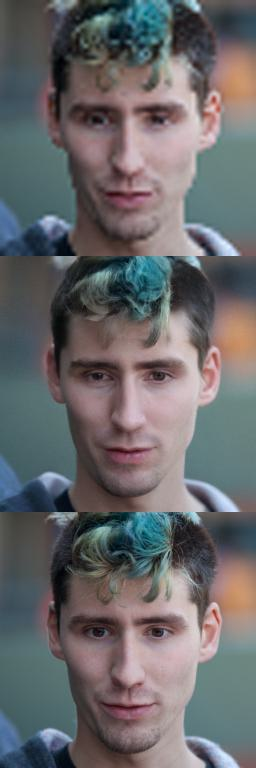
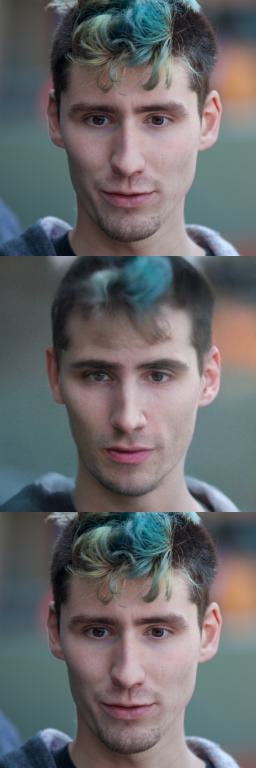
adding noisy case

diff --git a/src/pseudoInverse/algorithm5.py b/src/pseudoInverse/algorithm5.py
@@ -7,7 +7,7 @@ from PIL import Image
 import torch.nn.functional as F
 import torchvision.transforms as T
 
-from pseudoInverse.operators import SuperResolutionPseudoinverseOperator, RotationOperator
+from pseudoInverse.operators import SuperResolutionPseudoinverseOperator, RotationOperator, IdentityOperator
 from ddpm.model import DDPM
 from ddpm.utils import pilimg_to_tensor, save_pilimg
 
@@ -36,9 +36,10 @@ class DiffusionModel:
 
 
 class PiGDM:
-    def __init__(self, model, measurement_operator, eta=1, guidance_factor=0.005, device='cuda'):
+    def __init__(self, model, measurement_operator, measurement_matrix=None, eta=1, guidance_factor=0.005, device='cuda'):
         self.model = model
         self.measurement_operator = measurement_operator
+        self.H = measurement_matrix
         self.eta = eta
         self.guidance_factor = guidance_factor
         self.device = device
@@ -108,6 +109,7 @@ class PiGDM:
             # Predict the one-step denoised result (DDPM version)
             z = torch.randn_like(x, device=self.device)
             mut = (x - betas[t] * epsilon_theta / np.sqrt(1 - alphas_cumprod[t])) / np.sqrt(alphas[t])
+            
 
             
             # Calculate the guidance term g
@@ -125,6 +127,19 @@ class PiGDM:
                 diff = h_pseudoinv_y - h_pseudoinv_h_x_hat
                 mat_x = (diff.detach() * x_hat_t).sum()      
                 g = torch.autograd.grad(mat_x, x, retain_graph=False)[0].detach()
+            else:
+                if self.H is None:
+                    raise ValueError("measurement_matrix must be provided for noisy case")
+                sigma_t = betas[t] ** 0.5
+                r_t = ((sigma_t ** 2) / (1 + sigma_t ** 2)) ** 0.5
+
+                HH_T = self.H @ self.H.T
+                noise_term = (sigma_y**2 / r_t**2) * torch.eye(HH_T.shape[0], device=HH_T.device, dtype=HH_T.dtype)
+                inv_matrix = torch.linalg.solve(HH_T + noise_term, torch.eye(HH_T.shape[0], device=HH_T.device, dtype=HH_T.dtype))
+                
+                mat_x = ((y - self.H @ x_hat_t).detach() * ((inv_matrix @ self.H) @ x_hat_t)).sum()
+                g = torch.autograd.grad(mat_x, x, retain_graph=False)[0].detach()
+
             
             x = x.detach()
             # PiGDM update (last part of the algorithm)
@@ -141,25 +156,30 @@ if __name__ == "__main__":
     image_path = "ddpm/diffusion-posterior-sampling/data/samples/00015.png"
     scale_factor = 4  
 
+    noiseless = False
+    sigma_y = 0.1
+
     # Load image with PIL
     pil_img = Image.open(image_path).convert('RGB')
 
     tensor_img = pilimg_to_tensor(pil_img)
     # measurement_operator = SuperResolutionPseudoinverseOperator(mode="bicubic")
-    measurement_operator = RotationOperator(45)
+    measurement_operator = IdentityOperator()
+    # measurement_operator = RotationOperator(45)
+    measurement_matrix = torch.eye(256).to('cuda')
     low_res_img = measurement_operator(tensor_img)
     
     low_res_img_show = measurement_operator.pseudoinverse(low_res_img)
-
+ 
     # Intialize Model
     ddpm = DDPM()
     model = DiffusionModel(model=ddpm) 
 
     # Initialize sampler
-    pidgm_sampler = PiGDM(model, measurement_operator, guidance_factor=guidance_factor)
+    pidgm_sampler = PiGDM(model, measurement_operator, measurement_matrix, guidance_factor=guidance_factor)
 
     # Result
-    high_res_img = pidgm_sampler.sample(low_res_img, num_steps)
+    high_res_img = pidgm_sampler.sample(low_res_img, num_steps, sigma_y, noiseless)
     out = torch.cat((low_res_img_show, high_res_img, tensor_img), dim = 2)
 
     print(f"Min: {high_res_img.min().item()}, Max: {high_res_img.max().item()}")

diff --git a/src/pseudoInverse/operators.py b/src/pseudoInverse/operators.py
@@ -156,3 +156,22 @@ class RotationOperator:
         restored = F.grid_sample(y, grid, mode='bilinear', padding_mode='zeros', align_corners=False)
         
         return restored
+    
+
+
+class IdentityOperator:
+    """
+    Rotation operator for image transformations.
+    Allows both forward (rotation) and pseudoinverse (inverse rotation) operations.
+    """
+    def __init__(self):
+        self.name = "identity"
+        
+    def __call__(self, x):
+        return self.forward(x)
+    
+    def forward(self, x):
+        return x
+    
+    def pseudoinverse(self, y):
+        return y
